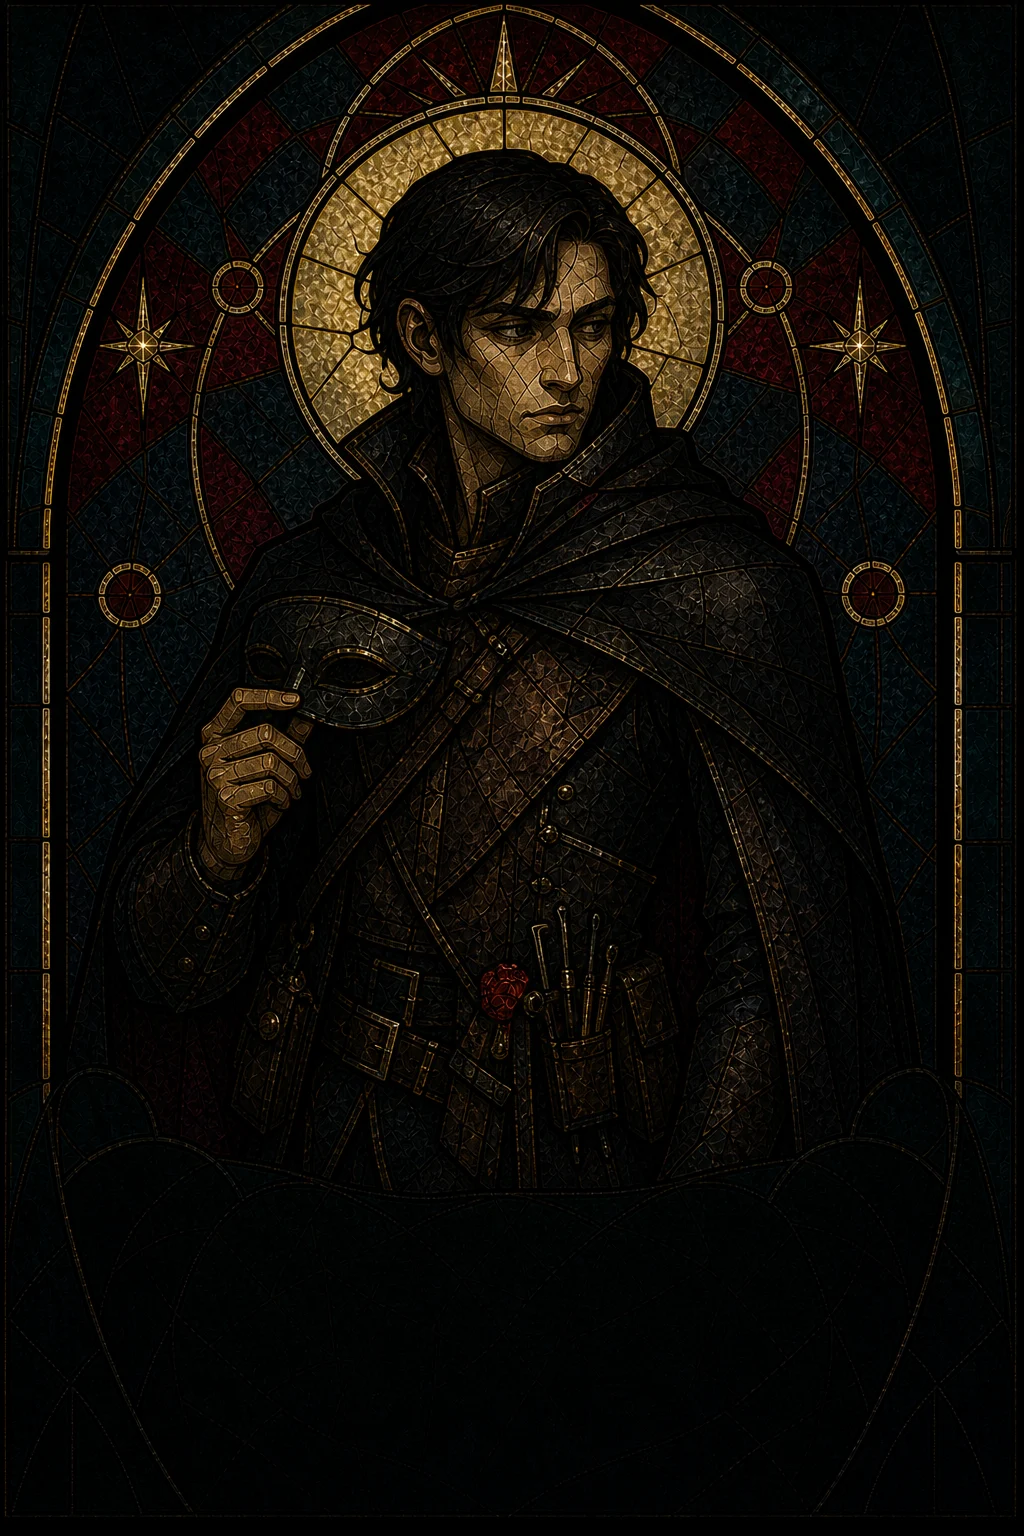
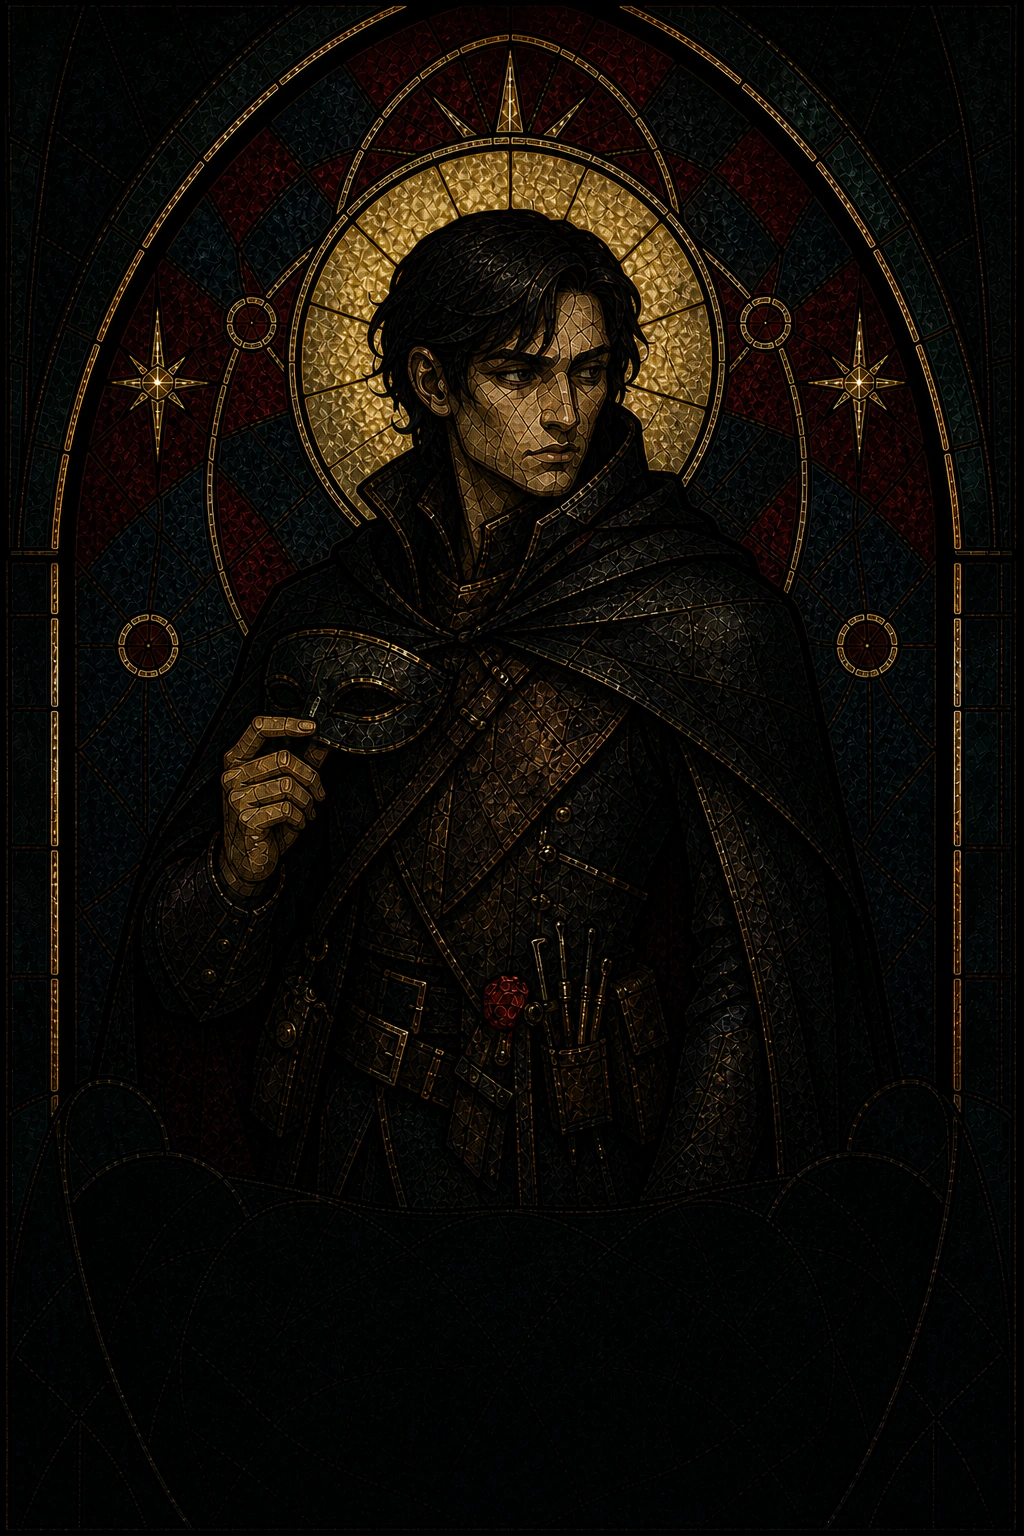
fix(avalon): calibrate stained glass role framing

Changed region(s): [[0.0312, 0.0, 0.9688, 0.75], [0.25, 0.625, 0.3125, 0.6875], [0.3438, 0.7188, 0.375, 0.75]]

diff --git a/frontend/src/games/avalon/roleSkins.test.ts b/frontend/src/games/avalon/roleSkins.test.ts
@@ -15,6 +15,16 @@ describe('Avalon role skin artwork framing', () => {
     expect(roleArtworkFraming('percival', 'classic-tabletop').scale).toBe(1)
   })
 
+  it('brings stained-glass Percival up to the set scale without cropping its frame', () => {
+    expect(roleArtworkFraming('percival', 'stained-glass')).toEqual({
+      scale: 1.09,
+      originXPercent: 50,
+      originYPercent: 50,
+      preserveFrame: true,
+    })
+    expect(roleArtworkFraming('merlin', 'stained-glass').scale).toBe(1)
+  })
+
   it('finishes the restrained royal-codex Merlin composition correction', () => {
     expect(roleArtworkFraming('merlin', 'royal-codex')).toEqual({
       scale: 1.16,

diff --git a/frontend/src/games/avalon/roleSkins.ts b/frontend/src/games/avalon/roleSkins.ts
@@ -198,6 +198,14 @@ const ROLE_ARTWORK_FRAMING: Partial<
   'classic-tabletop': {
     merlin: { scale: 1.1, originXPercent: 50, originYPercent: 36 },
   },
+  'stained-glass': {
+    percival: {
+      scale: 1.09,
+      originXPercent: 50,
+      originYPercent: 50,
+      preserveFrame: true,
+    },
+  },
   'royal-codex': {
     merlin: {
       scale: 1.16,
